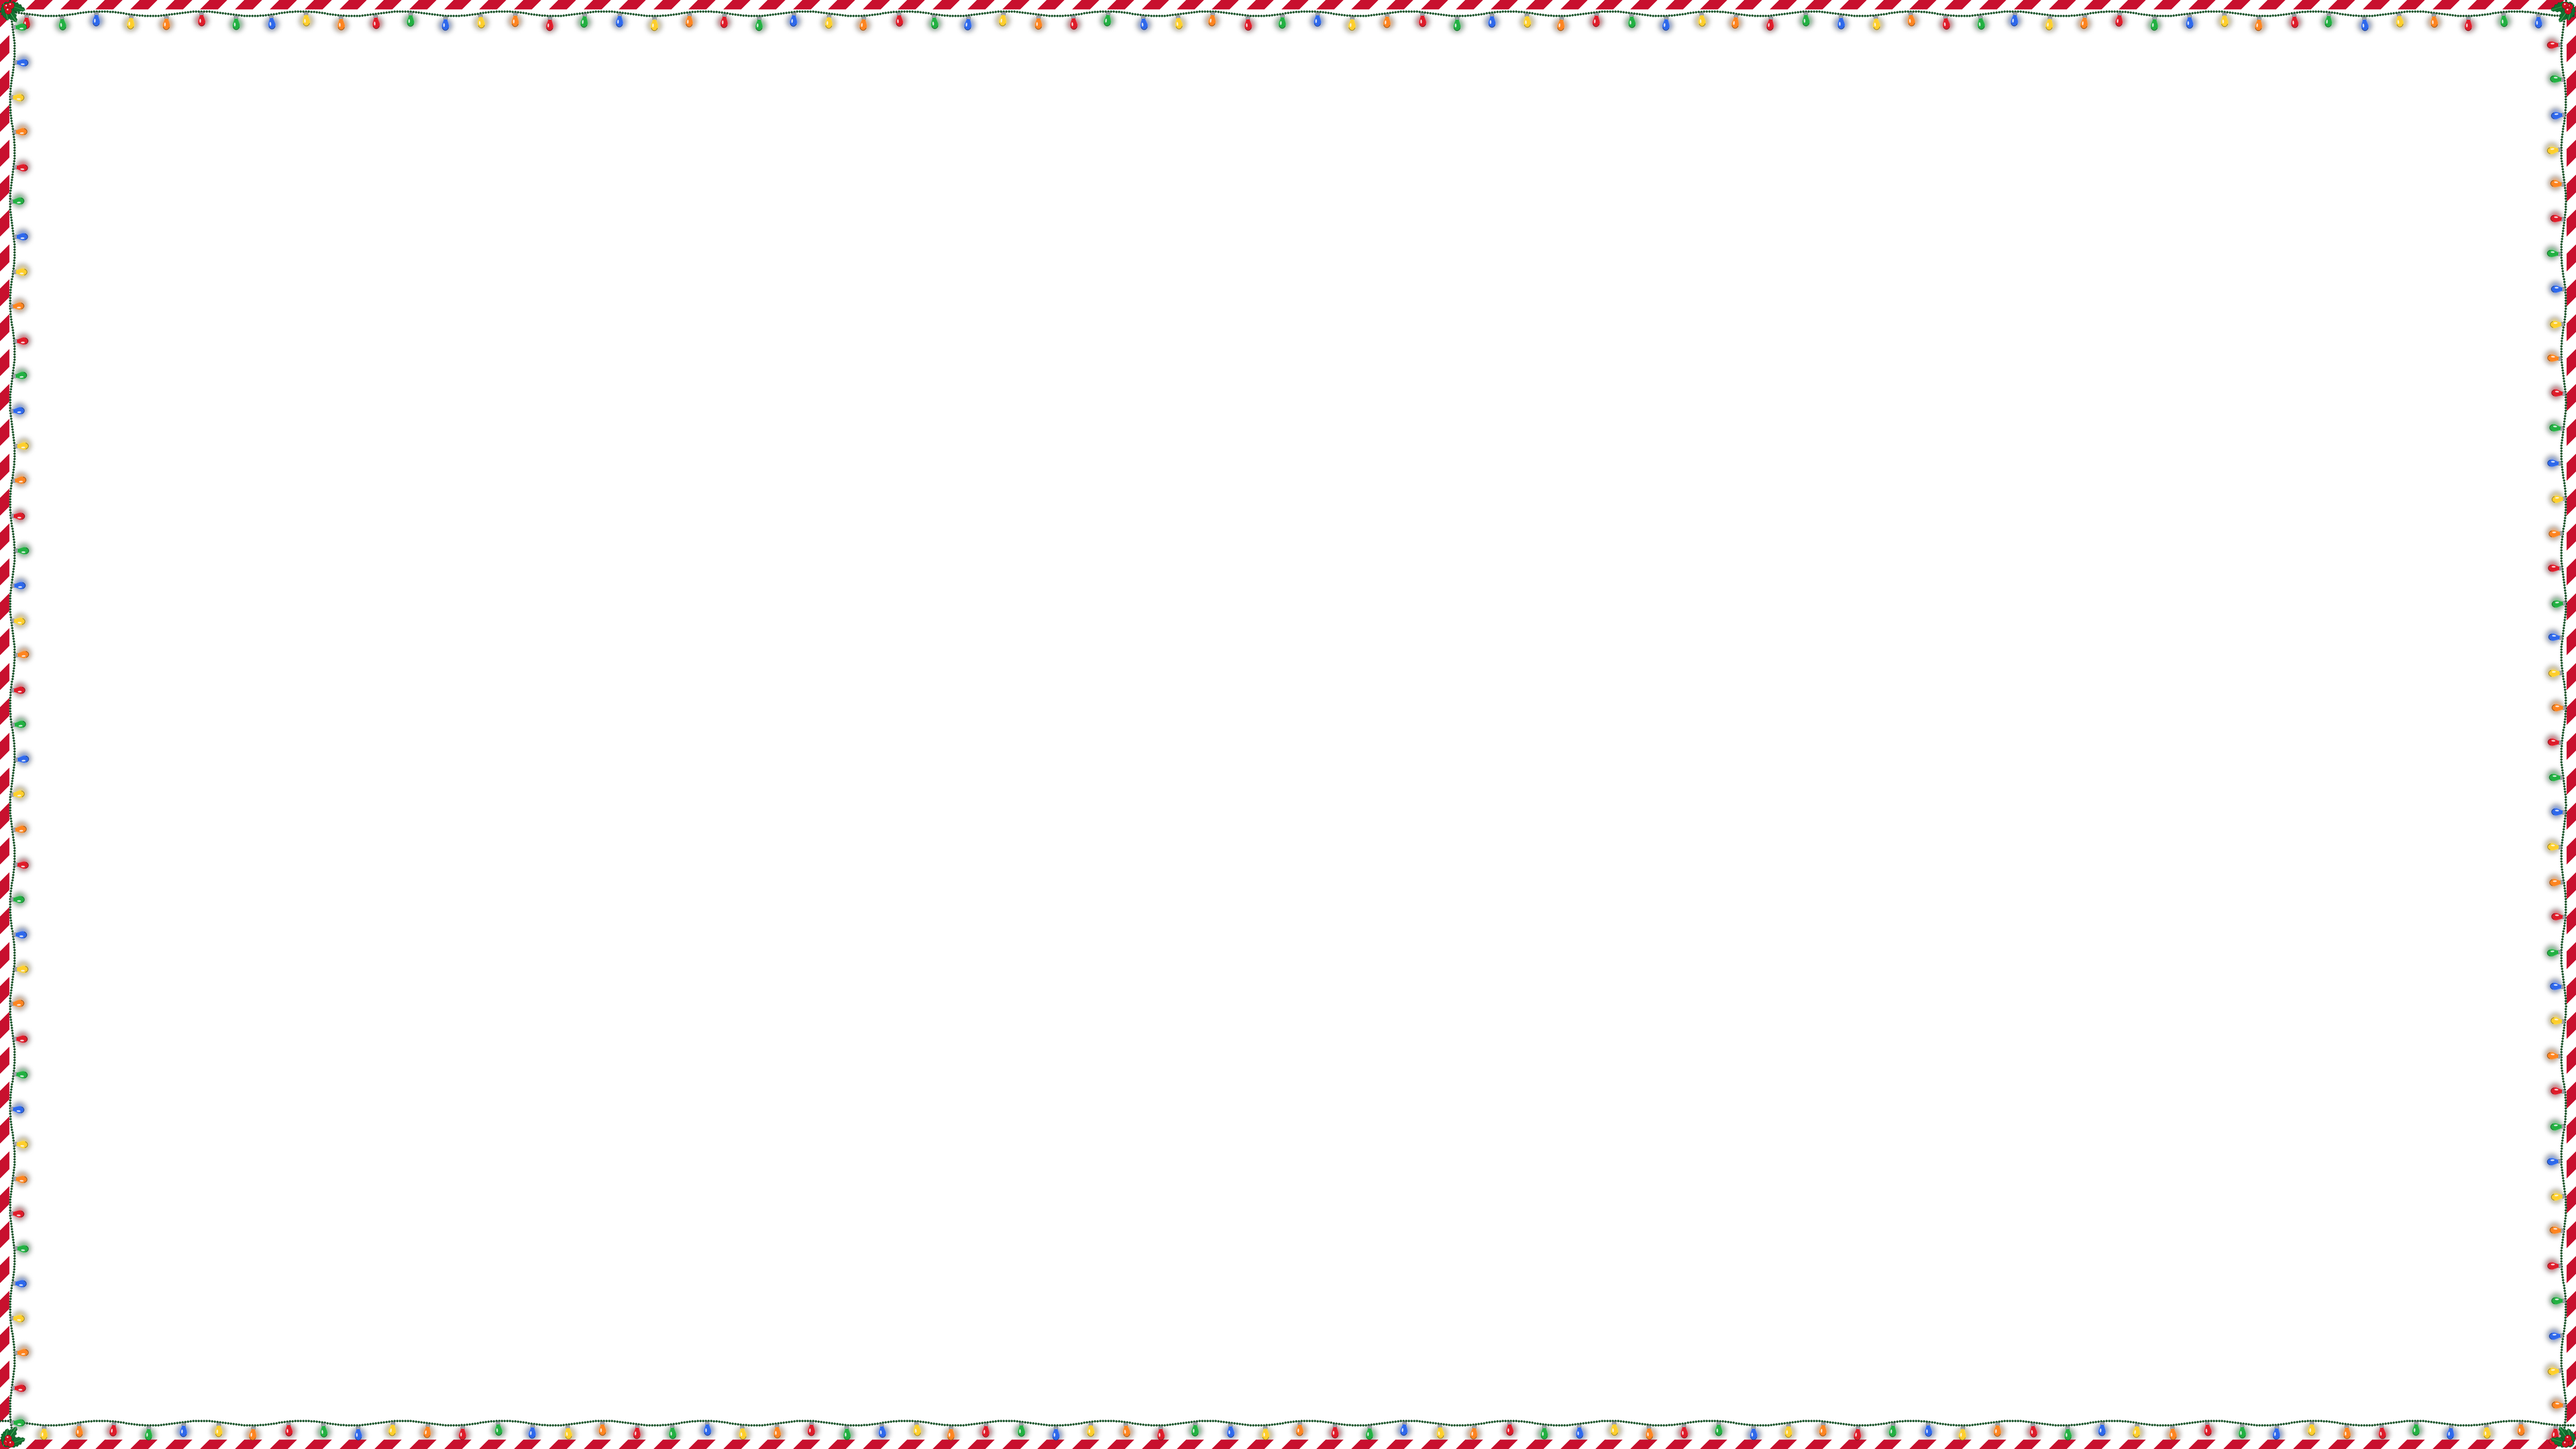
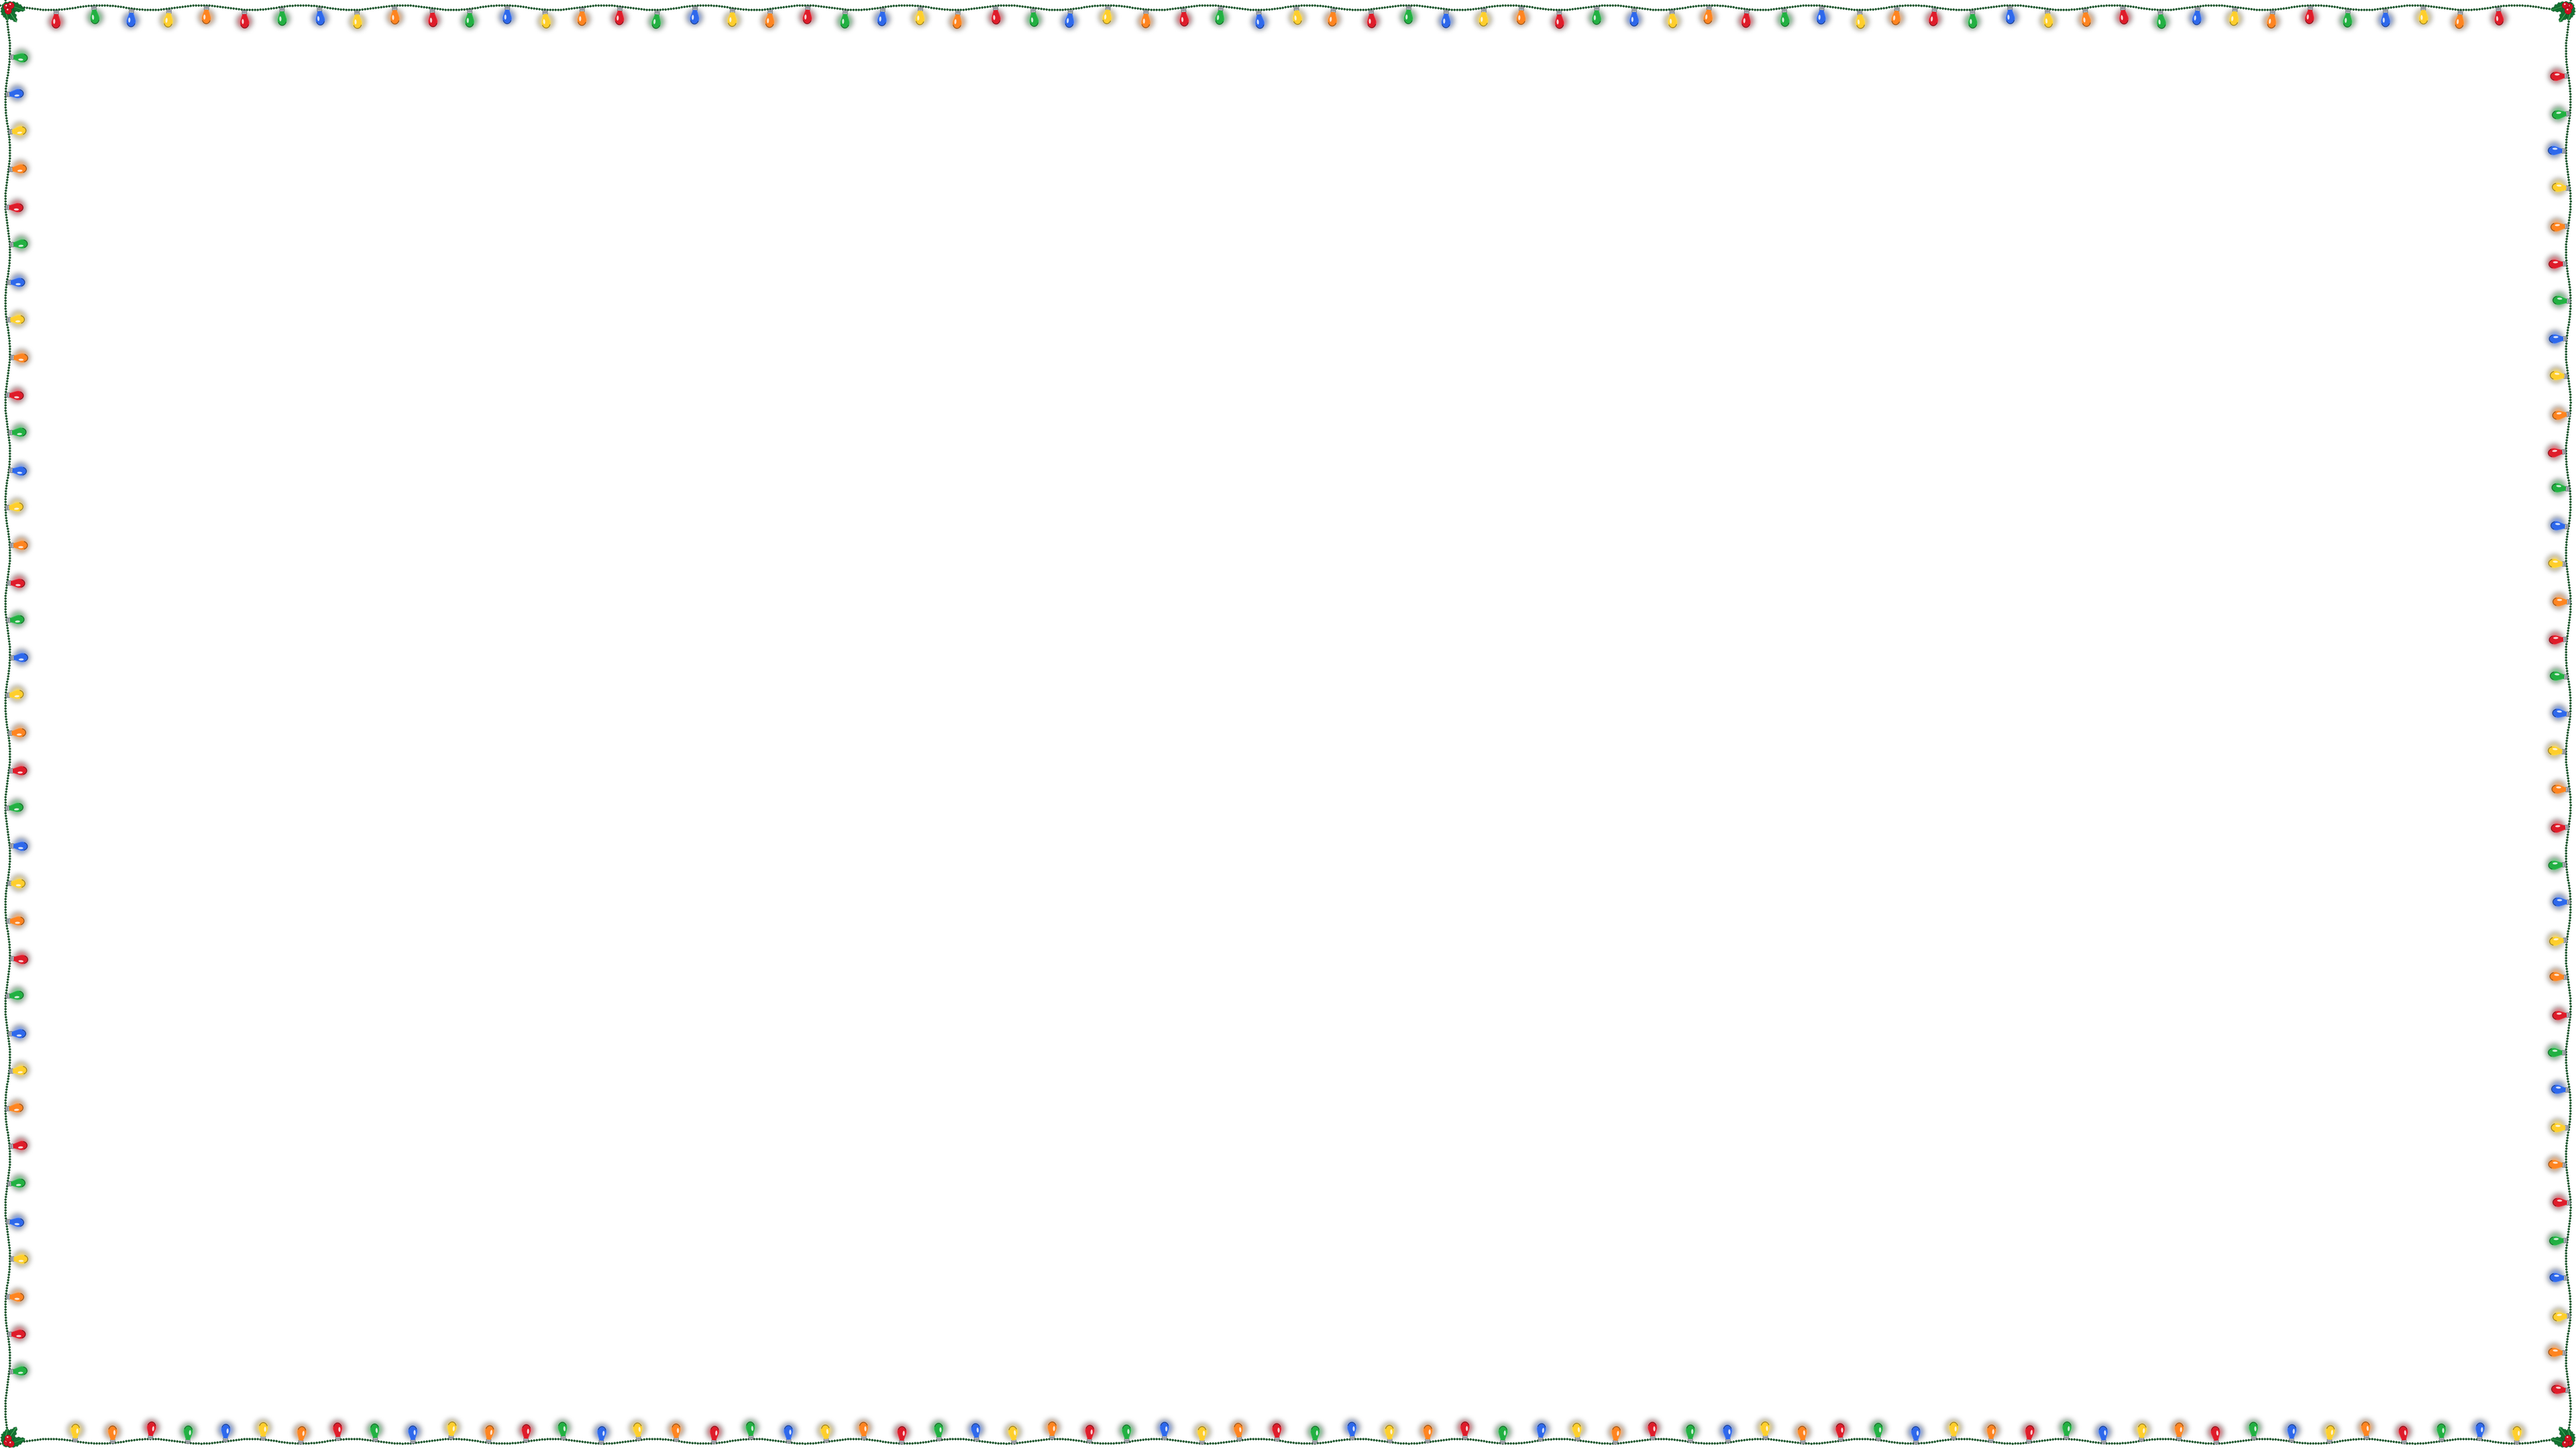
Christmas lights without candy cane, bulbs pointing inward; add five holiday borders
Valentine's Day, St. Patrick's Day, Easter (dated rows 2027-2030), Fourth of July
and Halloween. All kept in the screen margin and checked against every slide.
Cache version raised so devices fetch the redrawn Christmas file.

Changed region(s): [[0.0, 0.0, 1.0, 1.0]]

diff --git a/sw.js b/sw.js
@@ -11,7 +11,7 @@
  *
  * Bump CACHE when you change any file under assets/ so Pis fetch the new one.
  */
-var CACHE = "slicks-menus-v2";
+var CACHE = "slicks-menus-v3";
 var SHELL = [
   "./", "index.html", "menu.css", "app.js", "config.js",
   "data/items.csv", "data/sections.csv", "data/specials.csv", "data/settings.csv", "data/seasons.csv",
